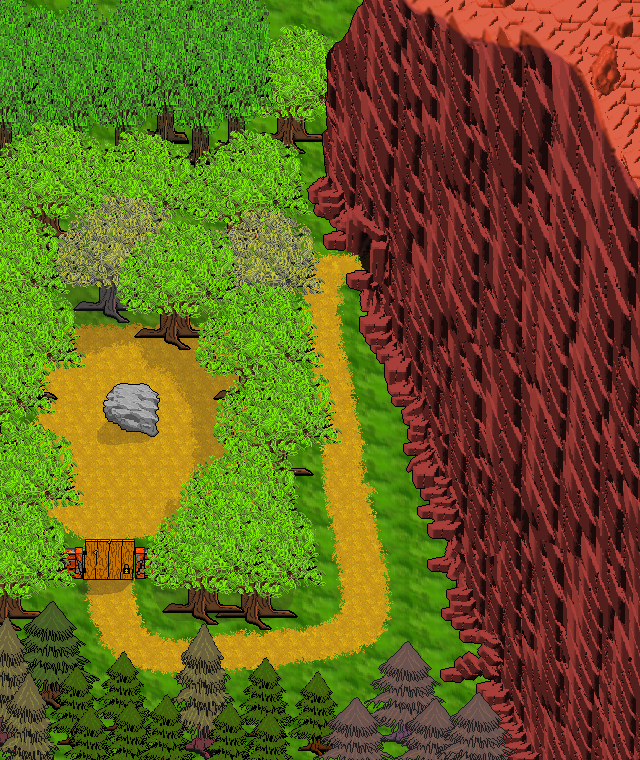
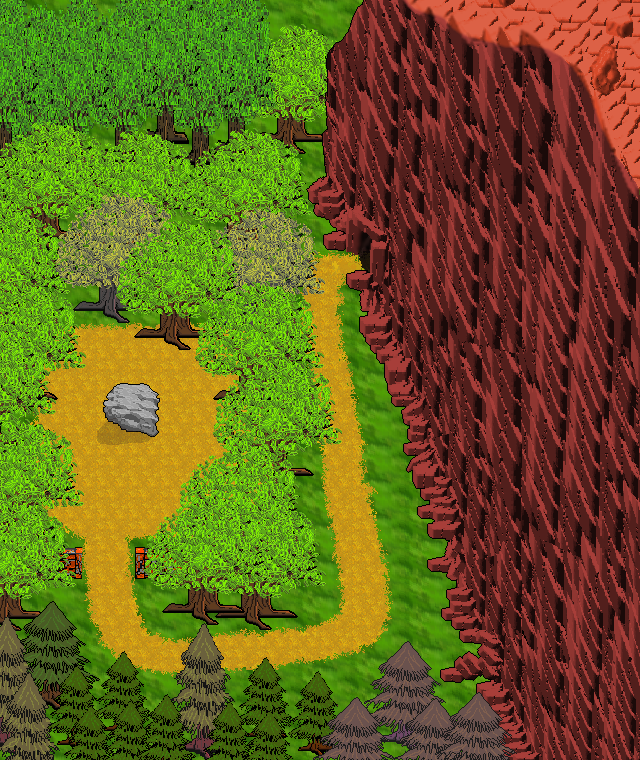
COMPLTETED the following TODOsO TODO -1- fix gate in background of forest. It was mistakenly added in bg TODO -1- make glyph inactive buttons transparent

diff --git a/main.py b/main.py
@@ -75,8 +75,6 @@ TODO -1- make a proper game over screen
 TODO -1- make inventory have proper labeling too!
 TODO -4- make it possible to upload feedback from the menu
 TODO -4- animate the river/waterfall
-TODO -1- fix gate in background of forest. It was mistakenly added in bg
 TODO -3- fix player jitter when camera moves
-TODO -1- make glyph inactive buttons transparent
 TODO -1- make hands swap items when no slots are selected
 """
